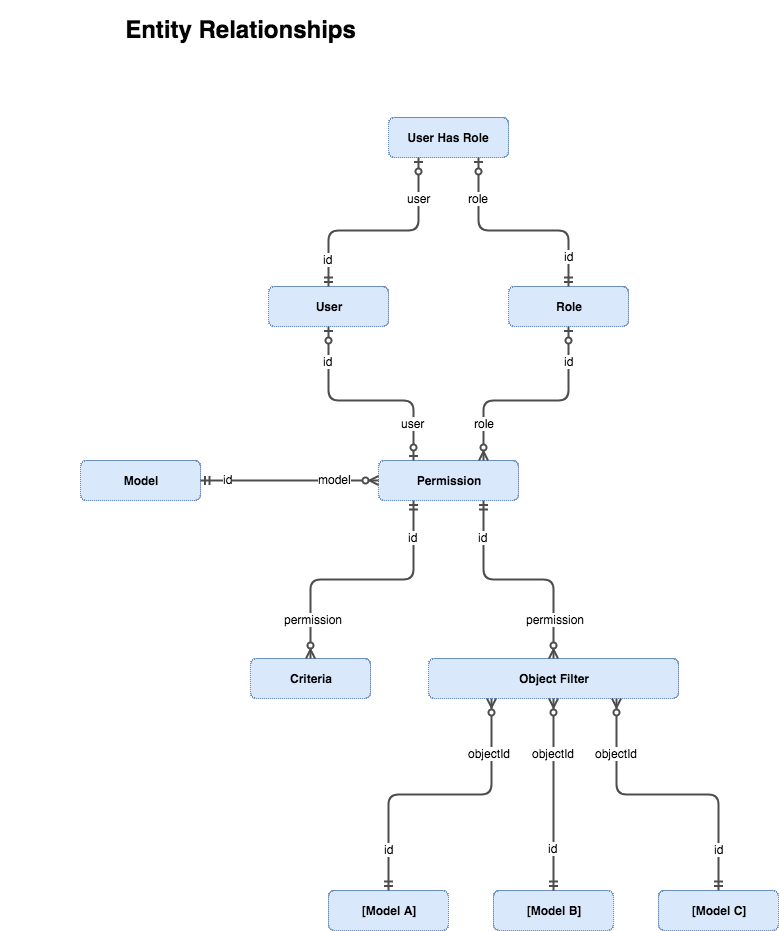
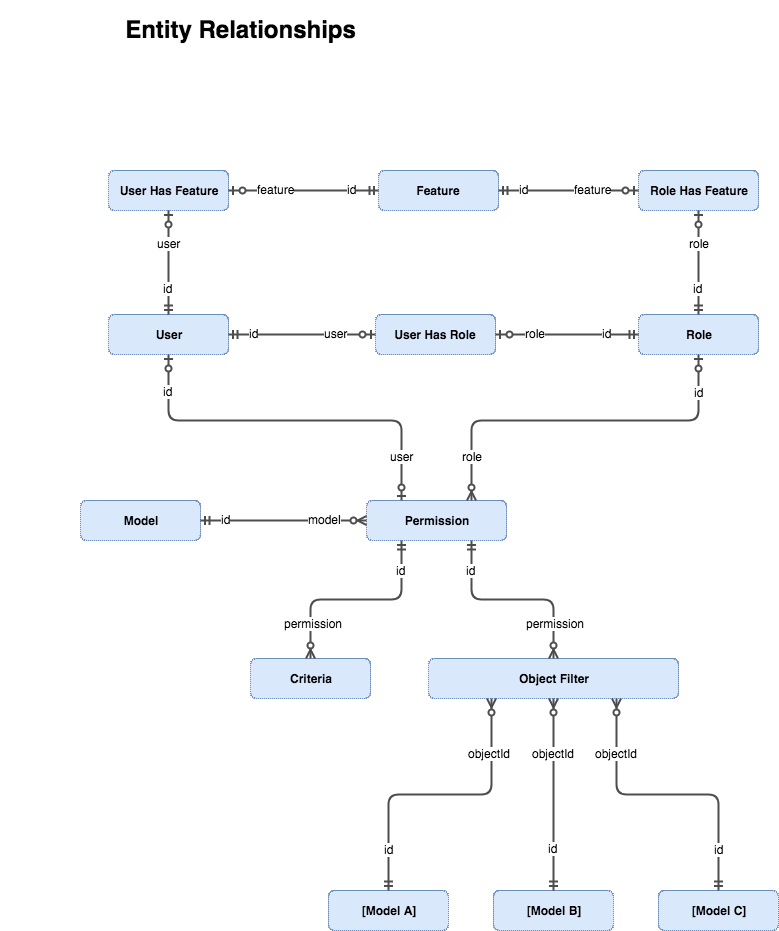
Add new feature functionality and documentation.

Changed region(s): [[0.0924, 0.1246, 0.9859, 0.6853]]

diff --git a/lib/helpers.js b/lib/helpers.js
@@ -109,6 +109,63 @@ let helpers = {
       return findPerm;
     });
 
+  },
+
+  /**
+   * Lookup all features granted to one user (user, and role relations).
+   *
+   * @param {Object} user User object
+   * @param {Object} options
+   * @returns {Promise}
+   */
+  findUserFeatures: function findUserFeatures(user = {}, options = {}) {
+
+    // find user
+    let findOneUser = User.findOne(user.id);
+
+    // populate user roles and features
+    findOneUser
+      .populate('roles', {active: true})
+      .populate('features', {active: true});
+
+    // exec
+    return findOneUser.then((user) => {
+
+      // user belongs to any roles?
+      if (user.roles.length >= 1) {
+
+        // find all features assigned to user via role.
+        // this requires a second role query with features populated.
+        let extRoleCriteria = {
+          or: []
+        };
+
+        // push every role onto `or`
+        _.forEach(user.roles, function (role) {
+          extRoleCriteria.or.push({id: role.id});
+        });
+
+        // init roles + features find promise
+        let findExtRoles = Role.find(extRoleCriteria).populate('features', {active: true});
+
+        // try to find role features
+        return findExtRoles.then((roles) => {
+          // need one flat array (including directly assigned)
+          let features = Array.prototype.concat(
+            user.features,
+            _.flatten(_.map(roles, (role) => role.features))
+          );
+          // unique by id
+          return _.uniq(features, 'id');
+        });
+
+      } else {
+        // no roles, return only directly assigned user features
+        return user.features;
+      }
+
+    });
+
   }
 
 };

diff --git a/api/controllers/AuthController.js b/api/controllers/AuthController.js
@@ -2,6 +2,7 @@
 var _ = require('lodash');
 var _super = require('@inspire-platform/sails-hook-auth/api/controllers/AuthController');
 var accessPolicy = require('../../lib/accessPolicy');
+var featurePolicy = require('../../lib/featurePolicy');
 
 _.merge(exports, _super);
 _.merge(exports, {
@@ -12,6 +13,27 @@ _.merge(exports, {
     if (true === req.session.authenticated) {
       // try to get user access policy
       return accessPolicy.user(req.user)
+        .then((policy) => {
+          // got one, return it
+          return res.send(policy);
+        }).catch((err) => {
+          // not good, log error
+          sails.log.debug(err);
+          // don't provide an error info (paranoid)
+          return res.forbidden();
+        });
+    }
+
+    // default to forbidden
+    return res.forbidden();
+  },
+
+  featurePolicy: function policy(req, res) {
+
+    // does user have session?
+    if (true === req.session.authenticated) {
+      // try to get user feature policy
+      return featurePolicy.user(req.user)
         .then((policy) => {
           // got one, return it
           return res.send(policy);

diff --git a/api/models/Feature.js b/api/models/Feature.js
@@ -1,0 +1,40 @@
+/**
+ * @module Feature
+ *
+ * @description
+ *   Simple tag style permissions.
+ *   These are useful for situations when there is a need to create ad hoc policies unrelated to models.
+ */
+module.exports = {
+  autoCreatedBy: false,
+  attributes: {
+    id: {
+      type: 'number',
+      autoIncrement: true
+    },
+    name: {
+      type: 'string',
+      required: true,
+      unique: true,
+      minLength: 1
+    },
+    identity: {
+      type: 'string',
+      required: true,
+      unique: true,
+      minLength: 1
+    },
+    active: {
+      type: 'boolean',
+      defaultsTo: true
+    },
+    roles: {
+      collection: 'Role',
+      via: 'features'
+    },
+    users: {
+      collection: 'User',
+      via: 'features'
+    }
+  }
+};

diff --git a/lib/featurePolicy.js b/lib/featurePolicy.js
@@ -1,0 +1,30 @@
+/*
+ * Generate feature policies.
+ */
+
+let _ = require('lodash');
+let helpers = require('./helpers');
+
+let featurePolicy = {
+
+  /**
+   * Format and return user feature policy.
+   *
+   * @param {Object} user User object
+   * @returns {Promise}
+   */
+  user: function getUserPolicy(user) {
+
+    let features = helpers.findUserFeatures(user);
+
+    return features.then((features) => {
+      return _.transform(features, (acc, feature) => {
+        acc[feature.identity] = _.pick(feature, ['id', 'name', 'identity']);
+      }, {})
+    });
+
+  }
+
+};
+
+module.exports = featurePolicy;

diff --git a/api/models/Role.js b/api/models/Role.js
@@ -32,6 +32,10 @@ module.exports = {
     permissions: {
       collection: 'Permission',
       via: 'role'
+    },
+    features: {
+      collection: 'Feature',
+      via: 'roles'
     }
   }
 };

diff --git a/api/models/User.js b/api/models/User.js
@@ -11,6 +11,10 @@ _.merge(exports, {
     permissions: {
       collection: "Permission",
       via: "user"
+    },
+    features: {
+      collection: "Feature",
+      via: "users"
     }
   },
 

diff --git a/docs/Concepts.md b/docs/Concepts.md
@@ -82,3 +82,12 @@ Each `Object Filter` is simply a reference to the id of an object stored in the 
 > __Important:__
 >
 > Currently, no foreign key checks are performed on the object ids when inserted.
+
+### Feature
+
+A `Feature` is a tool for building ad hoc policies for protecting non-model related objects or assets.
+Some of examples of this might be composite routes, front-end dashboards, static assets, etc.
+
+A feature can be toggled on/off directly for a `User`, or indirectly for a `User` via a `Role`.
+
+Features do not follow the same CRUD pattern as permissions, they are effectively a boolean flag.

diff --git a/docs/Managing-REST.md b/docs/Managing-REST.md
@@ -57,3 +57,15 @@ All permissions management can be easily achieved using Sails.js v1 REST
 |------|---------|
 |`/objectFilter`| GET, POST |
 |`/objectFilter/{id}`| GET, PATCH, DELETE |
+
+
+### Feature
+
+| Path | Methods |
+|------|---------|
+|`/feature`| GET, POST |
+|`/feature/{id}`| GET, PATCH, DELETE |
+|`/feature/{id}/users` | GET |
+|`/feature/{id}/users/{userId}` | PUT, DELETE |
+|`/feature/{id}/roles` | GET |
+|`/feature/{id}/roles/{roleId}` | PUT, DELETE |
